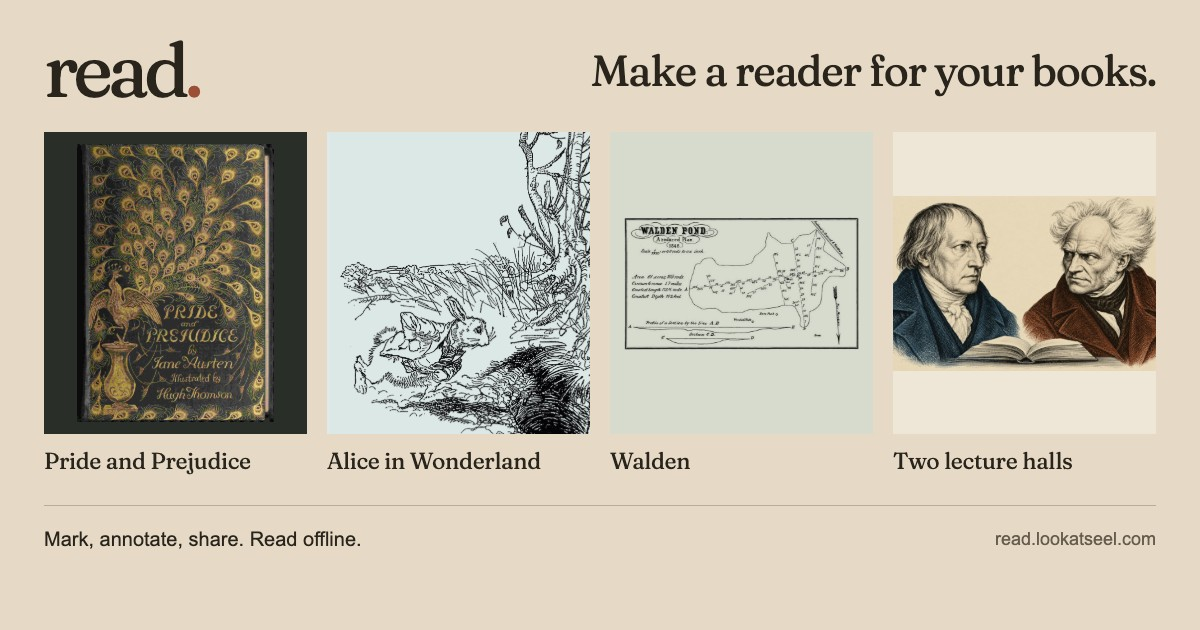
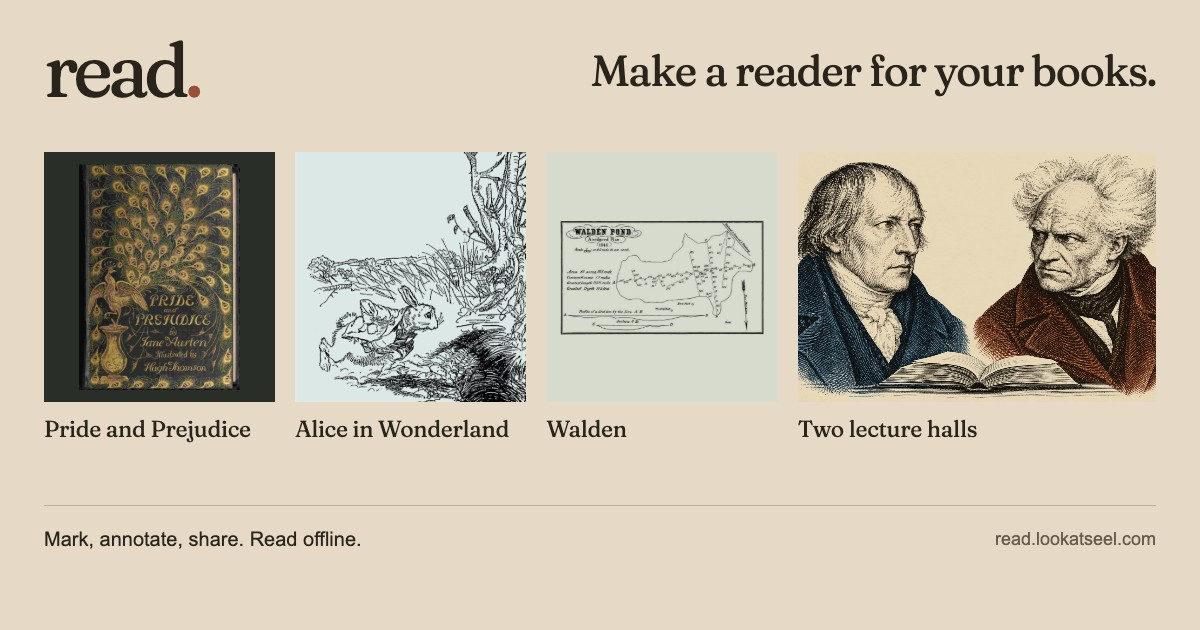
Fix catalogue image fit and add home-screen guidance

diff --git a/showcase/style.css b/showcase/style.css
@@ -2,11 +2,13 @@
 @font-face{font-family:Fraunces;src:url('/assets/fraunces-italic.woff2') format('woff2');font-weight:100 900;font-style:italic;font-display:swap}
 :root{--paper:#e6dac6;--ink:#29241c;--muted:#655c4d;--line:#bbae98;--serif:Fraunces,'Iowan Old Style',Baskerville,Georgia,serif;--sans:system-ui,-apple-system,BlinkMacSystemFont,'Segoe UI',sans-serif;color:var(--ink);background:var(--paper);font-family:var(--sans);font-size:16px;font-synthesis:none}
 *{box-sizing:border-box}html{scroll-padding-top:24px}body{margin:0}a{color:inherit;text-underline-offset:.25em;text-decoration-thickness:1px}a:hover{text-decoration-thickness:2px}a:focus-visible,button:focus-visible,textarea:focus-visible,summary:focus-visible{outline:2px solid var(--ink);outline-offset:5px}h1,h2,h3,p{margin:0}h1,h2,h3{font-weight:400}p{line-height:1.55}svg{width:19px;height:19px;fill:none;stroke:currentColor;stroke-width:1.5;stroke-linecap:round;stroke-linejoin:round;flex:none}.wrap{width:min(1240px,calc(100% - 96px));margin-inline:auto}.skip{position:absolute;top:12px;left:16px;z-index:10;background:var(--ink);color:var(--paper);padding:12px;transform:translateY(-180%)}.skip:focus{transform:none}
-.masthead{display:flex;align-items:center;justify-content:space-between;padding-block:15px 8px}.wordmark{font:48px/1 var(--serif);letter-spacing:-.065em;min-height:52px;text-decoration:none}.wordmark-period{color:#9c4f37}.byline{font-size:12px;min-height:44px;display:flex;align-items:center;text-decoration:none}.byline:hover{text-decoration:underline}.intro{display:flex;justify-content:space-between;align-items:center;gap:30px;padding:20px 0 38px}.intro h1{font:400 clamp(36px,4vw,54px)/1.03 var(--serif);letter-spacing:-.04em}.intro h1 br{display:none}.intro-copy>p{font-size:15px;color:var(--muted);margin-top:13px}.intro-action>p{font-size:12px;margin-bottom:8px;color:var(--muted)}.build-link,button{display:inline-flex;align-items:center;justify-content:center;gap:20px;background:var(--ink);color:#fbf6ee;border:1px solid var(--ink);min-height:48px;padding:12px 18px;font:500 13px var(--sans);text-decoration:none;cursor:pointer}.build-link:hover,button:hover{background:#453a2b}.section-line{display:flex;justify-content:space-between;align-items:center;border-top:1px solid var(--line);padding:13px 0 15px}.section-line h2,.section-line>span{font:400 11px var(--sans);letter-spacing:.1em;text-transform:uppercase}.section-line>span{color:var(--muted)}.book-list{display:grid;grid-template-columns:repeat(2,minmax(0,1fr));gap:30px 24px}.reader{text-decoration:none;display:block;min-width:0}.plate{position:relative;height:clamp(260px,24vw,338px);overflow:hidden;display:flex;justify-content:center;align-items:center}.plate img{display:block;object-fit:contain}.austen .plate{background:#292e29}.austen .plate img{height:92%;width:auto;max-width:90%}.alice .plate{background:#dfe9e9}.alice .plate img{position:absolute;width:73%;height:auto;max-width:450px;bottom:-20%;right:5%;mix-blend-mode:multiply}.walden .plate{background:#d6dbce;padding:30px}.walden .plate img{width:100%;height:100%;mix-blend-mode:multiply}.halls .plate{background:#eee6d6}.halls .plate img{width:100%;height:100%;object-fit:contain;mix-blend-mode:multiply}.caption{display:flex;justify-content:space-between;gap:20px;align-items:start;padding-top:14px}.caption h3{font:400 clamp(20px,2vw,26px)/1.15 var(--serif);letter-spacing:-.025em}.caption p{font-size:12px;color:var(--muted);margin-top:5px}.open-reader{display:flex;align-items:center;gap:7px;min-height:44px;font-size:12px;flex:none}.open-reader svg{width:16px;height:16px}.reader:hover h3,.reader:focus-visible h3{text-decoration:underline;text-underline-offset:.18em;text-decoration-thickness:1px}
-.start{display:grid;grid-template-columns:.9fr 1.1fr;gap:80px;border-top:1px solid var(--line);margin-top:53px;padding-block:38px 43px}.eyebrow{font-size:11px;letter-spacing:.1em;text-transform:uppercase;margin-bottom:13px}.start h2{font:400 clamp(33px,3.6vw,48px)/1.08 var(--serif);letter-spacing:-.035em}.options{margin-top:22px;max-width:38ch}.options p{font-size:13px;color:var(--muted);margin-top:9px}.options strong{font-weight:500;color:var(--ink)}.handoff{padding-top:2px;min-width:0}.handoff>label{display:block;font-size:12px;margin-bottom:12px}.handoff textarea{display:block;border:0;border-radius:0;width:100%;height:100px;min-height:100px;resize:vertical;background:#f1e9da;padding:14px 16px;font:14px/1.55 var(--sans);color:var(--ink);field-sizing:content}.handoff-actions{display:flex;align-items:center;gap:22px;margin-top:16px}.handoff-actions a,.instructions a{display:inline-flex;align-items:center;min-height:44px;font-size:12px}.handoff button{gap:15px;min-width:166px}button[hidden]{display:none}button:disabled{cursor:wait}.handoff [role=status]{font-size:12px;color:var(--muted);line-height:1.5}.handoff [role=status]:not(:empty){margin-top:10px}.instructions{margin-top:8px;font-size:12px;line-height:1.6;color:var(--muted)}.instructions summary{min-height:44px;padding-block:12px;cursor:pointer}.instructions>p{margin:8px 0}.instructions #full-prompt{font-size:13px;overflow-wrap:anywhere}.storage-note{font-size:11px}.footer{border-top:1px solid var(--line);padding-block:20px 28px;display:flex;justify-content:space-between;gap:30px}.footer>p{font-size:11px;max-width:61ch;color:var(--muted)}.footer-links{display:flex;align-items:start;gap:24px;flex-wrap:wrap}.footer-links a{font-size:11px;min-height:44px;display:inline-flex;align-items:center;white-space:nowrap}
+.masthead{display:flex;align-items:center;justify-content:space-between;padding-block:15px 8px}.wordmark{font:48px/1 var(--serif);letter-spacing:-.065em;min-height:52px;text-decoration:none}.wordmark-period{color:#9c4f37}.byline{font-size:12px;min-height:44px;display:flex;align-items:center;text-decoration:none}.byline:hover{text-decoration:underline}.intro{display:flex;justify-content:space-between;align-items:center;gap:30px;padding:20px 0 38px}.intro h1{font:400 clamp(36px,4vw,54px)/1.03 var(--serif);letter-spacing:-.04em}.intro h1 br{display:none}.intro-copy>p{font-size:15px;color:var(--muted);margin-top:13px}.intro-action>p{font-size:12px;margin-bottom:8px;color:var(--muted)}.build-link,button{display:inline-flex;align-items:center;justify-content:center;gap:20px;background:var(--ink);color:#fbf6ee;border:1px solid var(--ink);min-height:48px;padding:12px 18px;font:500 13px var(--sans);text-decoration:none;cursor:pointer}.build-link:hover,button:hover{background:#453a2b}.section-line{display:flex;justify-content:space-between;align-items:center;border-top:1px solid var(--line);padding:13px 0 15px}.section-line h2,.section-line>span{font:400 11px var(--sans);letter-spacing:.1em;text-transform:uppercase}.section-line>span{color:var(--muted)}.book-list{display:grid;grid-template-columns:repeat(2,minmax(0,1fr));gap:30px 24px}.reader{text-decoration:none;display:block;min-width:0}.plate{position:relative;height:clamp(260px,24vw,338px);overflow:hidden;display:flex;justify-content:center;align-items:center}.plate img{display:block;object-fit:contain}.austen .plate{background:#292e29}.austen .plate img{height:92%;width:auto;max-width:90%}.alice .plate{background:#dfe9e9}.alice .plate img{position:absolute;width:73%;height:auto;max-width:450px;bottom:-20%;right:5%;mix-blend-mode:multiply}.walden .plate{background:#d6dbce;padding:30px}.walden .plate img{width:100%;height:100%;mix-blend-mode:multiply}.halls .plate{background:#eee6d6}.halls .plate img{width:100%;height:100%;object-fit:cover;object-position:50% 20%;mix-blend-mode:multiply}.caption{display:flex;justify-content:space-between;gap:20px;align-items:start;padding-top:14px}.caption h3{font:400 clamp(20px,2vw,26px)/1.15 var(--serif);letter-spacing:-.025em}.caption p{font-size:12px;color:var(--muted);margin-top:5px}.open-reader{display:flex;align-items:center;gap:7px;min-height:44px;font-size:12px;flex:none}.open-reader svg{width:16px;height:16px}.reader:hover h3,.reader:focus-visible h3{text-decoration:underline;text-underline-offset:.18em;text-decoration-thickness:1px}
+.start{display:grid;grid-template-columns:.9fr 1.1fr;gap:80px;border-top:1px solid var(--line);margin-top:53px;padding-block:38px 43px}.eyebrow{font-size:11px;letter-spacing:.1em;text-transform:uppercase;margin-bottom:13px}.start h2{font:400 clamp(33px,3.6vw,48px)/1.08 var(--serif);letter-spacing:-.035em}.options{margin-top:22px;max-width:38ch}.options p{font-size:13px;color:var(--muted);margin-top:9px}.options strong{font-weight:500;color:var(--ink)}.handoff{padding-top:2px;min-width:0}.handoff>label{display:block;font-size:12px;margin-bottom:12px}.handoff textarea{display:block;border:0;border-radius:0;width:100%;height:100px;min-height:100px;resize:vertical;background:#f1e9da;padding:14px 16px;font:14px/1.55 var(--sans);color:var(--ink);field-sizing:content}.handoff-actions{display:flex;align-items:center;gap:22px;margin-top:16px}.handoff-actions a,.instructions a{display:inline-flex;align-items:center;min-height:44px;font-size:12px}.handoff button{gap:15px;min-width:166px}button[hidden]{display:none}button:disabled{cursor:wait}.handoff [role=status]{font-size:12px;color:var(--muted);line-height:1.5}.handoff [role=status]:not(:empty){margin-top:10px}.instructions{margin-top:8px;font-size:12px;line-height:1.6;color:var(--muted)}.instructions summary{min-height:44px;padding-block:12px;cursor:pointer}.instructions>p{margin:8px 0}.instructions #full-prompt{font-size:13px;overflow-wrap:anywhere}.footer{border-top:1px solid var(--line);padding-block:20px 28px;display:flex;justify-content:space-between;gap:30px}.footer>p{font-size:11px;max-width:61ch;color:var(--muted)}.footer-links{display:flex;align-items:start;gap:24px;flex-wrap:wrap}.footer-links a{font-size:11px;min-height:44px;display:inline-flex;align-items:center;white-space:nowrap}
 @media(max-width:1100px){.wrap{width:calc(100% - 64px)}.intro h1{max-width:13ch}.intro h1 br{display:block}.intro{padding-block:14px 28px}.intro-action{flex:none}.plate{height:270px}.start{gap:40px}.handoff textarea{min-height:125px}.handoff-actions{gap:16px;flex-wrap:wrap}.footer-links{gap:0 20px}}
 @media(max-width:760px){.wrap{width:calc(100% - 40px)}.wordmark{font-size:42px}.intro h1{font-size:36px}.intro-copy>p{font-size:13px;max-width:24ch}.intro-action>p{font-size:11px}.build-link{font-size:12px;gap:14px;padding-inline:14px}.book-list{gap:25px 18px}.plate{height:225px}.walden .plate{padding:18px}.caption{gap:10px}.caption h3{font-size:20px}.caption p{font-size:11px}.open-reader{font-size:11px;gap:5px}.start{gap:30px}.start h2{font-size:34px}.options p{font-size:12px}.handoff textarea{font-size:13px;min-height:133px}.footer{display:block}.footer-links{margin-top:10px}}
 @media(max-width:600px){.masthead{padding-top:10px}.intro{display:block;padding-block:17px 25px}.intro h1{font-size:39px;max-width:14ch}.intro h1 br{display:none}.intro-copy>p{font-size:13px;max-width:none;margin-top:10px}.intro-action{display:block;margin-top:17px}.intro-action>p{font-size:12px;line-height:1.5;margin:0 0 9px;max-width:none}.build-link{font-size:12px;gap:12px;min-height:46px;padding-inline:12px}.section-line{padding-block:12px}.section-line h2,.section-line>span{font-size:10px}.book-list{grid-template-columns:1fr;gap:25px}.plate{height:auto;aspect-ratio:3/2}.austen .plate img{position:absolute;height:93%;max-width:90%}.alice .plate img{width:73%;bottom:-22%}.walden .plate{padding:22px}.walden .plate img{height:auto}.caption{padding-top:11px}.caption h3{font-size:24px}.caption p{font-size:12px}.open-reader{font-size:12px}.start{display:block;margin-top:34px;padding-block:28px}.start h2{font-size:36px}.start h2 br{display:none}.options{max-width:none;margin-top:16px}.options p{font-size:13px;margin-top:8px}.handoff{margin-top:25px}.handoff textarea{font-size:14px;min-height:145px}.handoff-actions{gap:0 20px}.handoff button{min-width:153px;font-size:12px}.handoff-actions a{font-size:11px}.footer{padding-block:18px 22px}}
 @media(max-width:360px){.wrap{width:calc(100% - 32px)}.intro h1{font-size:35px}.intro-action{gap:10px}.intro-action>p{max-width:none}.caption h3{font-size:22px}.open-reader{font-size:11px}.handoff textarea{min-height:165px}}
 @media(max-height:500px) and (min-width:601px){.masthead{padding-block:5px}.intro{padding-block:5px 18px}.intro h1{max-width:none;font-size:32px}.intro h1 br{display:none}.intro-copy>p{margin-top:7px}.plate{height:240px}}
 @media(prefers-reduced-motion:no-preference){.reader .plate img{transition:transform .32s ease}.reader:hover .plate img{transform:scale(1.025)}.open-reader svg{transition:transform .2s ease}.reader:hover .open-reader svg,.reader:focus-visible .open-reader svg{transform:translate(2px,-2px)}}
+
+.install-guide{margin-top:20px;font-size:13px;line-height:1.6}.install-guide summary{min-height:44px;padding-block:12px;cursor:pointer}.install-body{max-width:76ch;padding:8px 0 12px;color:var(--muted)}.install-body dl{display:grid;grid-template-columns:110px 1fr;gap:13px 22px;margin:16px 0}.install-body dt{font-weight:500;color:var(--ink)}.install-body dd{margin:0}.install-body strong{font-weight:500;color:var(--ink)}.install-body>a{display:inline-flex;align-items:center;min-height:44px;margin-top:8px;font-size:12px}@media(max-width:600px){.install-body dl{grid-template-columns:1fr;gap:3px}.install-body dd{margin-bottom:10px}}

diff --git a/showcase/index.html b/showcase/index.html
@@ -58,6 +58,19 @@
           <div class="caption"><div><h3 id="halls-title">Two lecture halls</h3><p id="halls-author">Hegel &amp; Schopenhauer</p></div><span class="open-reader" aria-hidden="true">Enter <svg viewBox="0 0 24 24" focusable="false"><path d="M5 19 19 5M5 5h14v14"/></svg></span></div>
         </a>
       </div>
+      <details class="install-guide">
+        <summary>Add a reader to your home screen</summary>
+        <div class="install-body">
+          <p>Open one of the readers above first.</p>
+          <dl>
+            <dt>iPhone &amp; iPad</dt><dd>In Safari, open Share and choose <strong>Add to Home Screen</strong>. Enable <strong>Open as Web App</strong> if shown, then tap Add.</dd>
+            <dt>Android</dt><dd>In Chrome’s menu, choose <strong>Install and create shortcut</strong>, then <strong>Install</strong>. Some versions call this <strong>Add to Home screen</strong> or <strong>Install app</strong>.</dd>
+            <dt>Computer</dt><dd>In Chrome’s menu, choose <strong>Cast, save, and share</strong>, then <strong>Install page as app</strong>. On a Mac with Safari, choose <strong>File</strong>, then <strong>Add to Dock</strong>.</dd>
+          </dl>
+          <p>Open the new icon while online. In the reader’s Settings, choose <strong>Check offline copy</strong>, then try reopening it with Wi-Fi and mobile data off. If your books or notes aren’t there, restore a reading bundle from the browser where you saved them.</p>
+          <a href="https://github.com/lamentierschweinchen/personal-reader-kit/blob/main/docs/DEPLOYMENT.md#add-the-reader-to-your-home-screen">Installation and backup guide</a>
+        </div>
+      </details>
     </section>
     <section class="start wrap" id="start" aria-labelledby="start-title">
       <div class="start-intro"><p class="eyebrow">Make your own</p><h2 id="start-title">Start with<br> your agent.</h2><div class="options"><p><strong>Keep it simple.</strong> Highlights, notes, sharing, offline.</p><p><strong>Make it your own.</strong> History, walks, themes, paired books.</p></div></div>
@@ -66,13 +79,13 @@
         <textarea id="agent-prompt" readonly spellcheck="false">Use https://read.lookatseel.com/start.txt to help me build a personal reader. Follow the linked kit guide, then help me choose a simple reader or a custom experience.</textarea>
         <div class="handoff-actions"><button id="copy-prompt" type="button" hidden>Copy command <svg viewBox="0 0 24 24" aria-hidden="true" focusable="false"><rect x="8" y="8" width="12" height="13" rx="1"/><path d="M16 8V3H3v13h5"/></svg></button><a href="https://github.com/lamentierschweinchen/personal-reader-kit">Get the kit on GitHub</a></div>
         <p id="copy-status" role="status" aria-live="polite"></p>
-        <details class="instructions"><summary>Full instructions &amp; privacy</summary><p id="full-prompt">Help me build a personal reading website using https://github.com/lamentierschweinchen/personal-reader-kit. Start by reading the repository’s AGENTS.md and docs/AGENT-GUIDE.md. Work in my own project. Explain file privacy before I share any books, then help me choose a simple reader or a custom experience. Preserve the source text and formatting. Keep my books and notes out of public code. Use the kit’s reader-copyeditor skill for authored prose. Guide me through setup, offline checks and deployment, and confirm what will be public before publishing.</p><a href="/start.txt">Plain text for agents</a><p class="storage-note">Wait for “Available offline” before travelling. Notes stay in your browser; keep a backup.</p></details>
+        <details class="instructions"><summary>Full instructions</summary><p id="full-prompt">Help me build a personal reader with https://github.com/lamentierschweinchen/personal-reader-kit. Follow AGENTS.md and docs/AGENT-GUIDE.md in my own project. Help me choose a simple reader or a custom experience. Preserve the book’s text and formatting; use the reader-copyeditor skill for new prose. Guide me through setup, publishing, adding it to my home screen and checking offline reading.</p><a href="/start.txt">Plain text for agents</a></details>
       </div>
     </section>
   </main>
   <footer class="footer wrap">
-    <p>Use books you own, public-domain texts or licensed material. Owning a copy isn’t permission to publish it.</p>
-    <div class="footer-links"><a href="https://github.com/lamentierschweinchen/personal-reader-kit/blob/main/docs/RIGHTS.md">Rights &amp; privacy</a><a href="https://bookshop.org/">Support independent bookshops</a></div>
+    <p>Please use books you’re entitled to use, and publish only what you’re allowed to share.</p>
+    <div class="footer-links"><a href="https://github.com/lamentierschweinchen/personal-reader-kit/blob/main/docs/RIGHTS.md">Books &amp; permissions</a><a href="https://bookshop.org/">Support independent bookshops</a></div>
   </footer>
 </body>
 </html>

diff --git a/docs/DEPLOYMENT.md b/docs/DEPLOYMENT.md
@@ -44,6 +44,23 @@ In Vercel, sign in through the provider's UI and add a project from your chosen 
 
 The Git integration can deploy subsequent pushes automatically. Keep personal files out of every branch and deployment source, even if output files are allowlisted. Review the provider's [GitHub integration instructions](https://vercel.com/docs/git/vercel-for-github) when performing setup. For a CLI deployment, inspect the linked project and exact upload set; `.vercelignore` provides an allowlist, not authorization to deploy. Do not link or overwrite either reference reader's live project.
 
+## Add the reader to your home screen
+
+Open the reader's final HTTPS address first. Install the individual reader, not the catalogue that links to it. The stock reader and four public examples already include a web-app manifest and an offline worker; no app-store account is needed.
+
+| Device | Steps |
+| --- | --- |
+| iPhone or iPad | In Safari, open **Share** (sometimes inside the page menu), then **Add to Home Screen**. Enable **Open as Web App** if that option appears, then tap **Add**. If the action is missing, look in **Edit Actions**. |
+| Android phone or tablet | In Chrome's menu, choose **Install and create shortcut**, then **Install**, and follow the device's instructions. Older browser versions may label the action **Add to Home screen** or **Install app**. |
+| Computer with Chrome | Open the menu, then **Cast, save, and share**, then **Install page as app**. An install icon may also appear in the address bar. |
+| Mac with Safari | On macOS Sonoma 14 or later, choose **File**, then **Add to Dock** and **Add**. |
+
+Menu wording and installation options depend on the browser and operating system. These steps follow [Apple's iPhone guidance](https://support.apple.com/guide/iphone/turn-a-website-into-an-app-iph42ab2f3a7/ios), [Chrome's Android guidance](https://support.google.com/chrome/answer/9658361?co=GENIE.Platform%3DAndroid&hl=en), [Chrome's computer guidance](https://support.google.com/chrome/answer/9658361?co=GENIE.Platform%3DDesktop&hl=en) and [Safari's Mac guidance](https://support.apple.com/en-us/104996), checked 17 October 2026. They are instructions to try on the actual device, not evidence that native installation has been tested on every platform.
+
+Open the new icon while still online. Confirm your book and notes are present; an installed web app can have separate browser storage. If needed, export a **private reading bundle** from the browser where you were reading, then restore it in the installed app. Keep that backup until the book, annotations and reading place survive a close and reopen.
+
+In the installed reader, open **Settings**, choose **Check offline copy** and wait for **Available offline**. With both Wi-Fi and mobile data off, close and reopen it, change chapters, save a test annotation and reopen again to confirm it remains. Adding an icon alone does not establish offline readiness. Included books and companions can work offline; external research and directions links still need a connection. Retain backups because installation does not prevent cleared or evicted storage.
+
 ## Verify and hand off
 
 Do not equate a successful build with a usable site. After the approved deployment, verify:
@@ -52,7 +69,7 @@ Do not equate a successful build with a usable site. After the approved deployme
 - The library response contains only the two original works. Requests for `.reader/`, source books and backups return no private content; a generic error/404 is expected.
 - Import a harmless original fixture from a phone/tablet. Confirm it is retained after reload and no upload request appears. Do not use a copyrighted book to probe deployment safety.
 - Select text, save/edit a note, leave and resume the same section, open an exploratory passage and return. Export a backup and verify a fresh-browser restore with original fixtures.
-- Confirm the offline indicator, then disconnect and reload the reader and local import. Storage limitations still apply.
+- Confirm the offline indicator, then disconnect and reload the reader and local import. If the user adds it to their home screen, repeat this from the new icon, including an annotation save and reopen. Storage limitations still apply.
 - Check the actual phone/iPad selection menus, keyboard, safe areas, zoom and orientation; emulation is only partial evidence.
 
 Return the usable URL, commit and deployment identifiers, verification receipt, privacy model, recovery instructions and remaining limits. Keep credentials and provider linkage out of Git. Do not call a URL live or a push synchronized without checking the result.

diff --git a/showcase/ASSETS.md b/showcase/ASSETS.md
@@ -16,6 +16,8 @@ The four catalogue entrances use three unchanged edition images and one newly ge
 - `assets/two-halls-portraits.webp`: a contemporary AI-generated editorial illustration of Hegel and Schopenhauer, made with the built-in image-generation tool on 17 October 2026 for this catalogue. No source image, book passage or private reader material was supplied. The 1536 × 1024 generated PNG was resized and encoded as a 1280 × 853 WebP; no compositional retouching was applied. The print treatment and shared book are invented staging, not evidence of a meeting, historical engraving or lecture-room reconstruction. This project places no additional restriction on reuse of this generated asset and makes no claim of exclusive rights. It is separate from the historical artwork and protected literary editions.
 - `assets/read-share.jpg`: 1200 × 630 social preview rendered by [share-image.mjs](share-image.mjs) from the four catalogue assets and local Fraunces font. The typography is live HTML during rendering. This derivative layout retains the source-image notices above; the MIT code license does not relicense the historical art or font. Open Graph and large-image card metadata point directly to this locally hosted file. The older generic book preview remains credited but is no longer the social image.
 
+The Two Halls illustration fills its catalogue frame at each breakpoint; the responsive crop and social layout keep both faces visible. The earlier contained layout left bands around the image. Its replacement changes CSS presentation and the rendered social JPEG, not the source illustration. The earlier social JPEG hash remains reviewed for reachable history.
+
 The three historical image files retain their original bytes. CSS blending/cropping is confined to this catalogue presentation and does not modify source books. The linked edition rights, source terms and jurisdiction limits still apply; the kit's MIT code license does not relicense historical artwork. No private reader, promotional-video or user-library material is included.
 
 <details>
@@ -46,4 +48,4 @@ These are previews of the specifically authorized public examples, not personal-
 
 These four screenshot files were retired after the independent design review; they are no longer build or upload inputs. Their exact hashes remain in both the historical-path review and the asset pins so earlier reachable Git history can still be inspected without rewriting it.
 
-`publication.json.reviewedSiteAssets` contains eight current binary assets and four retired screenshot pins. No asset directory receives a blanket scanner exemption. These assets and the showcase are excluded from `starterFiles` and the stock reader build. All images and fonts are served locally; opening the catalogue makes no request to the personal site, sample readers or a font provider.
+`publication.json.reviewedSiteAssets` contains eight current binary assets, four retired screenshot pins and the earlier social-layout hash. No asset directory receives a blanket scanner exemption. These assets and the showcase are excluded from `starterFiles` and the stock reader build. All images and fonts are served locally; opening the catalogue makes no request to the personal site, sample readers or a font provider.

diff --git a/docs/RIGHTS.md b/docs/RIGHTS.md
@@ -8,6 +8,8 @@ This is a practical project rule, not a legal clearance or a claim that every pu
 
 Check permission for the intended use, including processing by an agent or external service, before supplying files. The finished reader's browser-local storage does not establish what the agent's model provider may process. See [privacy](PRIVACY.md).
 
+A public reader application can keep imported books in the reader's browser; publishing that application does not publish those imports. Hosting the book files is a separate decision. Not charging for access or keeping the URL unshared does not itself give permission to publish a protected book.
+
 Keep personal books, quotations, notes and reading bundles out of public repositories and hosting. A book-only export still contains the full text; adding your annotations does not make it freely distributable. Unlisted URLs and noindex do not restrict access.
 
 For a public example, check the **specific edition and every included contribution**, not just the title or author's death date. A public-domain novel may be packaged with a protected translation, introduction, cover, photograph or illustration. Record any attribution, license, trademark or redistribution conditions. Check the territories relevant to publication and use; a catalogue's “public domain in the USA” statement is not worldwide clearance. Preserve unresolved questions instead of marking them approved.
@@ -31,8 +33,10 @@ Real books make valuable trials because they expose structures that convenient s
 
 Use the actual source text, not a catalogue's generated synopsis. Preserve the chosen digital edition accurately, and do not describe that as a verified facsimile of a historical printing without comparison. Retain a source-edition e-reader link where useful, clearly distinguished from any future kit-generated export. Public-domain books do not make a reader's personal notes public.
 
-## Sources checked 16 October 2026
+## Sources checked 16–17 October 2026
 
 The [US Copyright Office's text of 17 USC §202](https://www.copyright.gov/title17/92chap2.html#202) distinguishes ownership of a copy from copyright ownership. This is a US rule cited for that distinction, not a worldwide legal opinion.
+
+Its [fair-use guidance](https://www.copyright.gov/fair-use/) explains that noncommercial purpose is one factor, not an automatic exemption; the amount used, nature of the work and effect on its market also matter. A polite rights reminder does not replace permission for the intended use.
 
 [Project Gutenberg's permissions guidance](https://www.gutenberg.org/policy/permission.html) explains its US jurisdiction, source credits and trademark/redistribution conditions, and cautions that its digital editions need not reproduce a single print source exactly. Read the actual ebook's notices and [license guidance](https://www.gutenberg.org/policy/license.html) for a proposed redistribution. Do not assume every item in a public-domain library has identical rights.

diff --git a/docs/STATUS.md b/docs/STATUS.md
@@ -4,6 +4,12 @@ The kit builder’s adversarial pass and the existing Canetti builder’s indepe
 
 The public destination remains [lamentierschweinchen/personal-reader-kit](https://github.com/lamentierschweinchen/personal-reader-kit), published on `main` as a GitHub template. The user approved the public showcase at `read.lookatseel.com` and four separate reader subdomains; live verification is recorded below. Neither personal reference reader was changed, redeployed or copied into this repository.
 
+## Catalogue correction and home-screen guidance · 17 October 2026
+
+The Two Halls illustration now fills its frame on phone, tablet and desktop; the social preview gives both portraits a wider column. The preceding layout checks established successful image loading but missed the bands caused by `object-fit: contain`. The catalogue check now measures the image's painted extent against the frame. Current Chromium/WebKit checks pass all six sizes per engine, including keyboard and no-JavaScript access to the new home-screen guide. Phone, tablet, desktop, expanded-guide and social-image captures were visually inspected. An independent design agent accepted the page crop and requested the wider social composition, then accepted the revised candidate. The full prompt is shorter; permissions remain a one-line footer reminder with linked details. All 44 kit and 135 example Node tests pass, with all 219 example outputs unchanged.
+
+Installation instructions follow Apple and Google documentation and link to an explicit installed-app offline/backup check. No native home-screen installation was performed on a physical device; browser emulation cannot establish that result. Reader code, prepared editions, storage and canonical origins are unchanged. These local results do not establish deployment; live verification remains a separate release step.
+
 ## Sharing refresh · 17 October 2026
 
 The catalogue's Two Halls entrance now uses a contemporary AI-generated engraved-style illustration of Hegel and Schopenhauer, with provenance separate from the historical editions. A dedicated **1200 × 630** social preview presents the four artworks, the site name and its brief offer. Open Graph and large-image card metadata reference the same local file. The full agent handoff explicitly includes the new reader-copyeditor skill. An independent design agent inspected desktop, tablet, phone and social-image captures and accepted the direction; its caption-order correction was incorporated. This is design judgment, not human reader acceptance.

diff --git a/VERSION-HISTORY.md b/VERSION-HISTORY.md
@@ -22,6 +22,10 @@ At the user's request, the public catalogue replaces lengthy promotional descrip
 
 The user's requested independent design review found that release `5a55295` met the content checklist but still looked like documentation: miniature screenshots made controls illegible, the build action was weak, and the long prompt dominated phones. The revised catalogue uses the actual Austen binding, Alice illustration and Walden survey, plus an original typographic composition for Two Halls. A stronger build action, lighter paper, a short copy command and disclosed full instructions keep the books prominent. The reviewer inspected the implemented desktop, tablet and phone views; a second refinement improved the phone CTA and Alice crop and removed a redundant label. Source image bytes are unchanged, retired screenshot hashes remain reviewed in history, and the four reader applications remain untouched. Current checks and their limits are recorded in docs/STATUS.md.
 
+## Catalogue fit and installation guidance · 17 October 2026
+
+The Two Halls artwork now fills its catalogue and social-preview frames. The earlier image-loading checks missed letterboxing; the browser check now measures the rendered image extent against the frame, alongside visual inspection of face crops. A collapsed home-screen guide covers Safari, Android Chrome and desktop installation, with a linked device/offline/backup procedure. The shorter agent prompt includes installation and omits the repeated privacy preamble. The footer keeps a brief permissions reminder; the agent's existing publication protections remain in force. No reader runtime, source edition or origin changes.
+
 ## Adversarial self-review · 15 October 2026
 
 Version 0.1.1 repairs source-spacing and quotation fidelity around empty blocks, repeated-restore duplication, draft-loss navigation paths and stale connection saves. Damaged imported books are isolated and retained for raw recovery. Unsupported book structure fails explicitly. Publication protection now checks commit/tag metadata and exact Vercel upload inputs. Regression cases and current evidence are recorded in `docs/STATUS.md`. This is the kit builder's self-review; the independent Canetti review of `4eaeec6` subsequently arrived and is addressed below.

diff --git a/docs/AGENT-GUIDE.md b/docs/AGENT-GUIDE.md
@@ -95,6 +95,6 @@ Guide prerequisites as needed, rather than assuming GitHub, Node, a terminal or 
 
 Make the exact deployment reviewable before requesting the final necessary approval. Confirm the target account/project, repository owner/name if not established, branch, audience and deployed file set. Let the person authenticate in the provider’s UI. Do not collect passwords or tokens in chat, create paid resources without authorization, broaden repository access, or publish personal books on an assumption.
 
-After deployment, verify root and direct asset URLs, import a harmless original fixture, test notes and reload, check offline reading, and confirm that excluded files are unavailable. Supply a handoff with URL, revision, verification limits, recovery instructions, and the next concrete choice. Do not call an untested deployment successful.
+After deployment, verify root and direct asset URLs, import a harmless original fixture, test notes and reload, check offline reading, and confirm that excluded files are unavailable. Offer the [home-screen installation steps](DEPLOYMENT.md#add-the-reader-to-your-home-screen) for the person's device. Open the installed reader online first, confirm or restore its books and notes, then check offline readiness from that icon. Do not equate adding an icon with a verified offline copy or assume browser records transfer automatically. Supply a handoff with URL, revision, verification limits, recovery instructions, and the next concrete choice. Do not call an untested deployment successful.
 
 Use [the bounded pilot protocol](PILOT.md) for newcomer onboarding, actual device transfer and one substantive editorial experience. Until real participants complete it, record these as pending rather than treating original-fixture browser tests as human acceptance.

diff --git a/README.md b/README.md
@@ -39,6 +39,8 @@ Choose **Bring a book** to add a UTF-8 `.txt` or prepared reader `.json` file, u
 
 The real-book trials required adapters for illustrations, notes, tables and shaped verse. The stock kit still uses its narrow text contract. [Adapter decisions](docs/ADAPTERS.md) explain compatibility, asset recovery and how to test an adapted reader without overstating automatic import support.
 
+**Keep it on your home screen.** Open the reader in Safari on iPhone/iPad or Chrome on Android, then use **Add to Home Screen** or **Install**. Desktop browsers offer app installation too. Open the new icon while online, confirm your books and notes, then check its offline copy before travelling. [Device-by-device instructions and backup steps](docs/DEPLOYMENT.md#add-the-reader-to-your-home-screen)
+
 ## Make your reader, with an agent
 
 If you have the repository open in an agent that can work with local files, start with:
